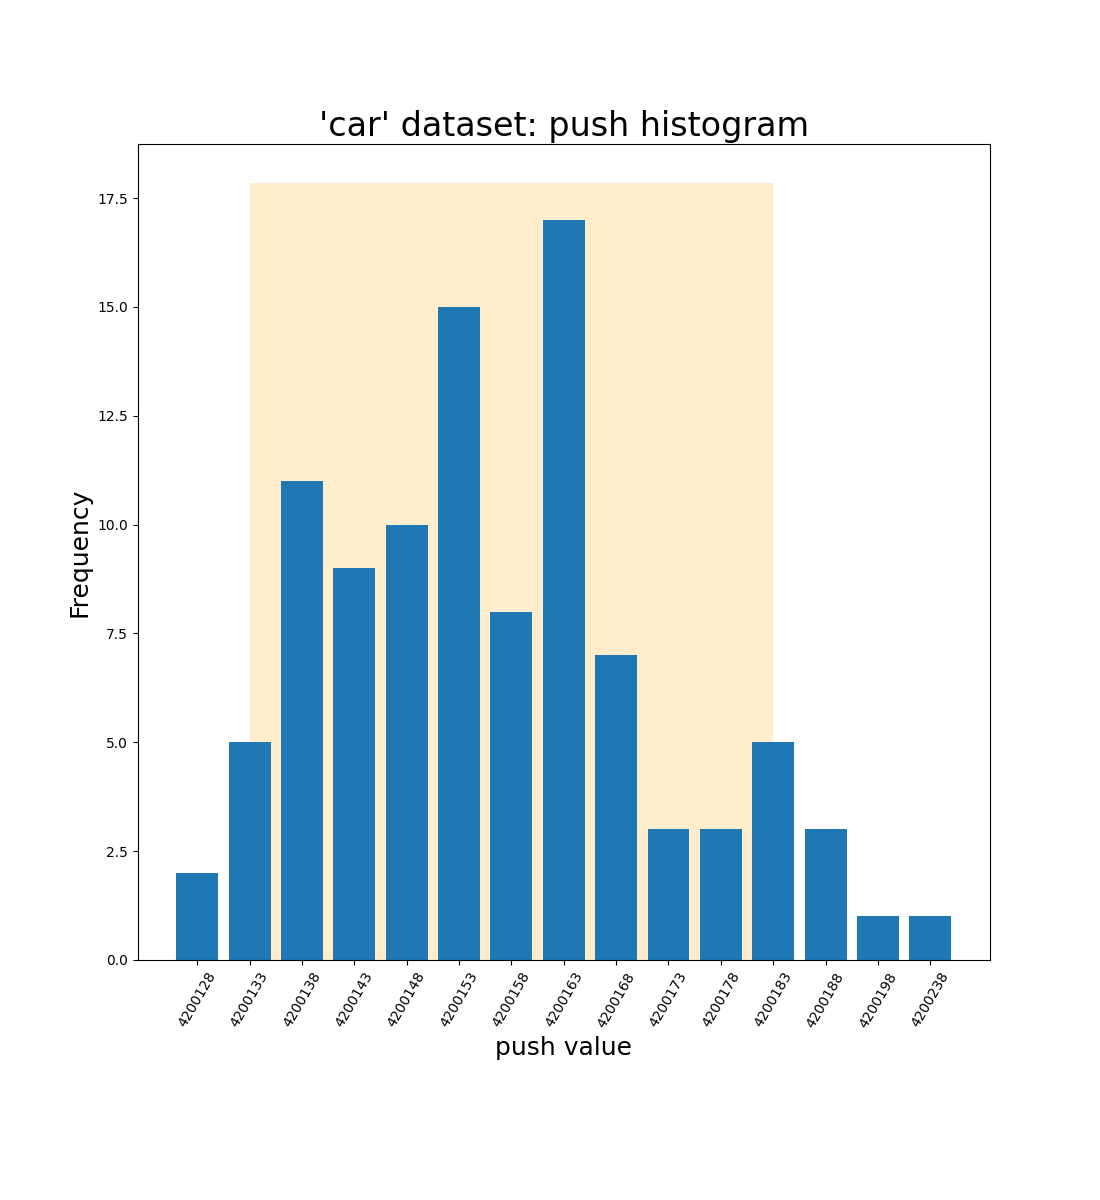
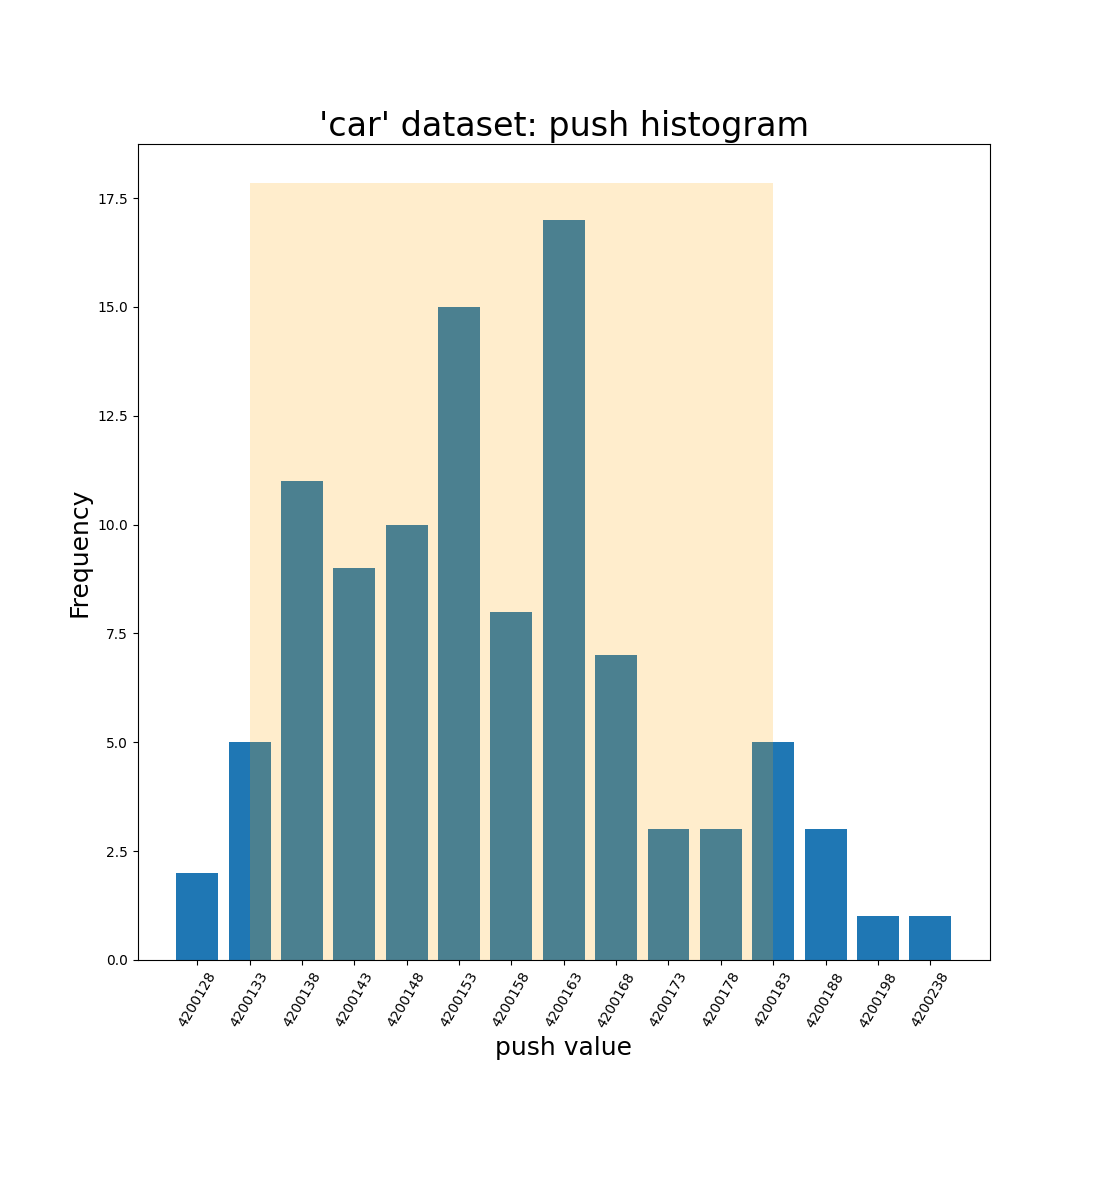
Refactor plot_histogram.py

Changed region(s): [[0.2164, 0.185, 0.7109, 0.8017]]

diff --git a/utils/plot_histogram.py b/utils/plot_histogram.py
@@ -1,13 +1,12 @@
 from cmath import e
 import matplotlib.pyplot as plt
 import numpy
+import json
 
 
-def plot(line, type):
+def plot(type, dataset_name, number_list, save_filename):
     # Get all the numbers
-    numbers = line.split(',')
-    dataset_name = numbers.pop(0)
-    numbers = sorted(numbers)
+    numbers = sorted(number_list)
 
     # Miscellaneous
     numbers_map = map(int, numbers)
@@ -42,36 +41,52 @@ def plot(line, type):
     _, ymax = ax.get_ylim()
     str_lower, str_upper = str(int(lower)), str(int(upper))
     ax.fill_betweenx([0, ymax], [str_lower, str_lower], [str_upper, str_upper],
-                     facecolor='orange', alpha=0.2)
+                     facecolor='orange', alpha=0.17)
+
+    # Overlay the bars again
+    ax.bar(labels, counts, align='center', color='#0072BD', alpha=1)
+
     # plt.show()
-    fig.savefig('./count_result/histogram_'+dataset_name+'_'+type+'.png')
+    fig.savefig('./count_result/'+save_filename+dataset_name+'_'+type+'.png')
 
 
-def plot_histogram_1by1():
-    # file = open('count_result/stack_trace_multiple_parts_v2_(pi_100).csv')
-    file = open('count_result/stack_trace_laptop_v2_first100.csv')
+def plot_histogram_1by1(v2_file, save_filename='histogram_'):
 
-    nonempty_lines = [line.strip("\n") for line in file if line != "\n"]
-    # max_line = len(nonempty_lines)
-    file.close()
+    # Opening JSON file
+    f = open(v2_file)
+    # Returns JSON object as a dictionary
+    data = json.load(f)
 
-    items = ['car', 'diabetes', 'energy', 'house', 'medical']
+    for operation in data:
+        for dataset_name in data[operation]:
+            plot(operation, dataset_name,
+                 data[operation][dataset_name], save_filename)
 
-    for i, line in enumerate(nonempty_lines):
-        if 'pop_flag' in line:
-            try:
-                for k in range(1, 6):
-                    plot(nonempty_lines[i+k], 'pop')
-            except e:
-                print(e)
-                print(f"Other dataset is not found. Stop at k = {k}.")
-        if 'push_flag' in line:
-            try:
-                for k in range(1, 6):
-                    plot(nonempty_lines[i+k], 'push')
-            except:
-                print(f"Other dataset is not found. Stop at k = {k}.")
+    # nonempty_lines = [line.strip("\n") for line in file if line != "\n"]
+    # # max_line = len(nonempty_lines)
+    # file.close()
 
+    # items = ['car', 'diabetes', 'energy', 'house', 'medical']
+
+    # for i, line in enumerate(nonempty_lines):
+    #     if 'pop_flag' in line:
+    #         try:
+    #             for k in range(1, 6):
+    #                 plot(nonempty_lines[i+k], 'pop')
+    #         except e:
+    #             print(e)
+    #             print(f"Other dataset is not found. Stop at k = {k}.")
+    #     if 'push_flag' in line:
+    #         try:
+    #             for k in range(1, 6):
+    #                 plot(nonempty_lines[i+k], 'push')
+    #         except:
+    #             print(f"Other dataset is not found. Stop at k = {k}.")
+
+
+plot_histogram_1by1(
+    v2_file='count_result/stack_trace_laptop_first100_v2.json',
+    save_filename='histogram_test_')
 
 '''
 # for line in nonempty_lines:

diff --git a/utils/count_v1.py b/utils/count_v1.py
@@ -63,15 +63,16 @@ def extract_trace_v1(traces_dirs,
             csv.close()
 
 
-def count_in_a_part(vpython_path, output_file, function_start_name, function_end_name):
+def count_in_a_part(vpython_path, output_file,
+                    function_start, function_end):
     '''
     The total of memory operations at certain part is the line
     with '>>>'
     As we identified the line with memory operations info we want,
     use .plit function to remove the '>>>', use it again to extract the 
     number of each operation type
-
     '''
+
     file = open(vpython_path)
     nonempty_lines = [line.strip("\n") for line in file if line != "\n"]
     max_line = len(nonempty_lines)
@@ -80,7 +81,7 @@ def count_in_a_part(vpython_path, output_file, function_start_name, function_end
     # Get the line we want and remove '>>> '
     # Get total memory_op right before A area
     for i in reversed(range(max_line)):
-        if function_start_name in nonempty_lines[i]:
+        if function_start in nonempty_lines[i]:
             if '>>> ' in nonempty_lines[i-1]:
                 memory_op_before_function_start = nonempty_lines[i-1].split(' ', 1)[
                     1]
@@ -90,7 +91,7 @@ def count_in_a_part(vpython_path, output_file, function_start_name, function_end
 
     # Get memory_op right after A area
     for i in reversed(range(max_line)):
-        if function_end_name in nonempty_lines[i]:
+        if function_end in nonempty_lines[i]:
             if '>>> ' in nonempty_lines[i+1]:
                 memory_op_after_function_end = nonempty_lines[i+1].split(' ', 1)[
                     1]
